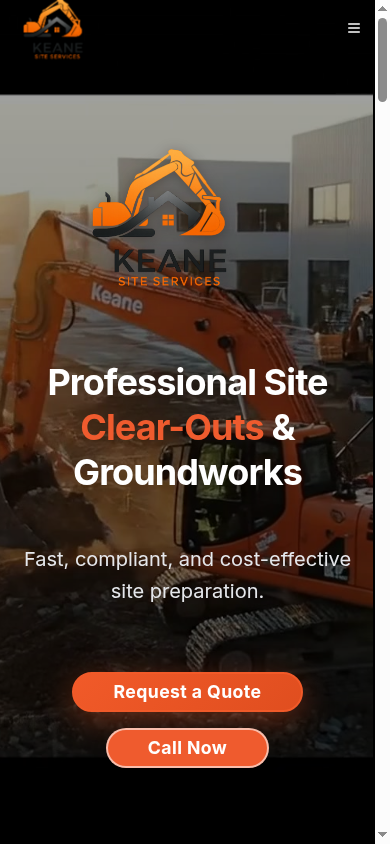
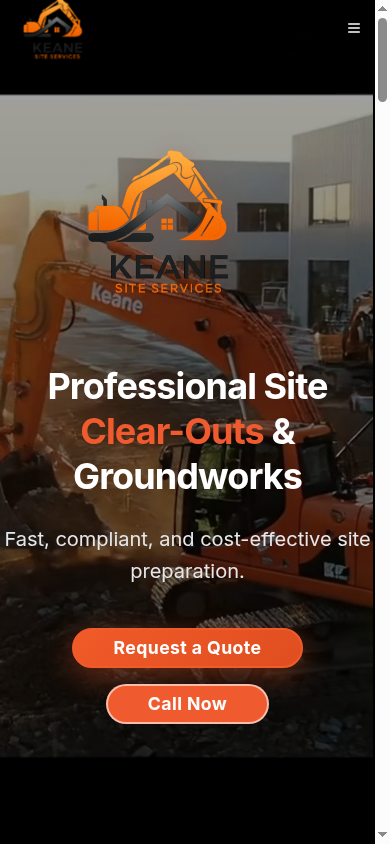
Ensure hero content is perfectly centered on all devices
Introduce a new CSS file to mathematically center hero overlay content (logos, headings, CTAs) using absolute positioning and grid alignment, overriding any previous positioning methods.

Replit-Commit-Author: Agent
Replit-Commit-Session-Id: 624e3bf0-69eb-41f0-b694-1bda0fa57f85
Replit-Commit-Checkpoint-Type: full_checkpoint
Replit-Commit-Screenshot-Url: https://storage.googleapis.com/screenshot-production-us-central1/0e88b65d-7500-4f64-be20-d51fd06f36a2/624e3bf0-69eb-41f0-b694-1bda0fa57f85/vnOdy0T

diff --git a/client/public/css/hero-center.lock.css b/client/public/css/hero-center.lock.css
@@ -1,0 +1,83 @@
+/* ===== Hero Overlay: Hard Center Lock (All Viewports) ===== */
+
+/* Scope only to the hero so nothing else is touched */
+.hero, .hero__media, .hero-video {
+  position: relative; /* ensure overlay positions against hero */
+}
+
+/* 1) Turn the overlay into a full-bleed grid and place the group at exact center */
+.hero__overlay,
+.hero .overlay,
+.hero-content {
+  position: absolute !important;
+  inset: 0 !important;                 /* take entire hero bounds */
+  display: grid !important;
+  place-items: center !important;      /* precise H+V centering */
+  text-align: center !important;
+
+  /* Kill any previous offsets that caused drift */
+  transform: none !important;
+  margin: 0 !important;
+  left: 0 !important;
+  right: 0 !important;
+  top: 0 !important;
+  bottom: 0 !important;
+  padding: 0 !important;
+
+  /* Don't block taps to video when needed (buttons will re-enable) */
+  pointer-events: none;
+}
+
+/* 2) Inner content stays centered and interactive */
+.hero__overlay > * ,
+.hero .overlay > * ,
+.hero-content > * {
+  pointer-events: auto;
+  margin: 0 auto !important;           /* no stray margins pushing off-center */
+}
+
+/* 3) Logo normalization: block-level, no stray inline whitespace, auto center */
+.hero__logo,
+.hero-content .logo,
+.hero__overlay img.logo,
+.hero .overlay img.logo {
+  display: block !important;
+  margin: 0 auto !important;
+  transform: none !important;
+}
+
+/* 4) Defensive: remove common centering "hacks" that break on mobile */
+.hero__overlay *,
+.hero .overlay *,
+.hero-content * {
+  /* neutralize legacy translate(-50%, -X%) tricks */
+  transform: none !important;
+}
+
+/* 5) Optional: constrain max width so text wrapping doesn't "look" off-center
+      (does not move the center point; only improves readability) */
+@media (min-width: 769px) {
+  .hero__overlay > *,
+  .hero .overlay > *,
+  .hero-content > * {
+    max-width: min(92vw, 1100px);
+  }
+}
+@media (max-width: 768px) {
+  .hero__overlay > *,
+  .hero .overlay > *,
+  .hero-content > * {
+    max-width: 92vw;
+  }
+}
+
+/* 6) If the fixed header overlaps visually, do NOT push the overlay down.
+      We're centering inside the hero by geometry, not "below the header".
+      (If you previously added padding-top to the overlay, this cancels it.) */
+@media (max-width: 2000px) {
+  .hero__overlay,
+  .hero .overlay,
+  .hero-content {
+    padding-top: 0 !important;
+  }
+}

diff --git a/client/index.html b/client/index.html
@@ -30,6 +30,9 @@
     <!-- KSS Mobile Final CSS -->
     <link rel="stylesheet" href="/css/kss-mobile-final.css">
     
+    <!-- Hero Center Lock CSS - MUST BE LAST -->
+    <link rel="stylesheet" href="/css/hero-center.lock.css">
+    
     <!-- JSON-LD Schema -->
     <script type="application/ld+json">
     {
